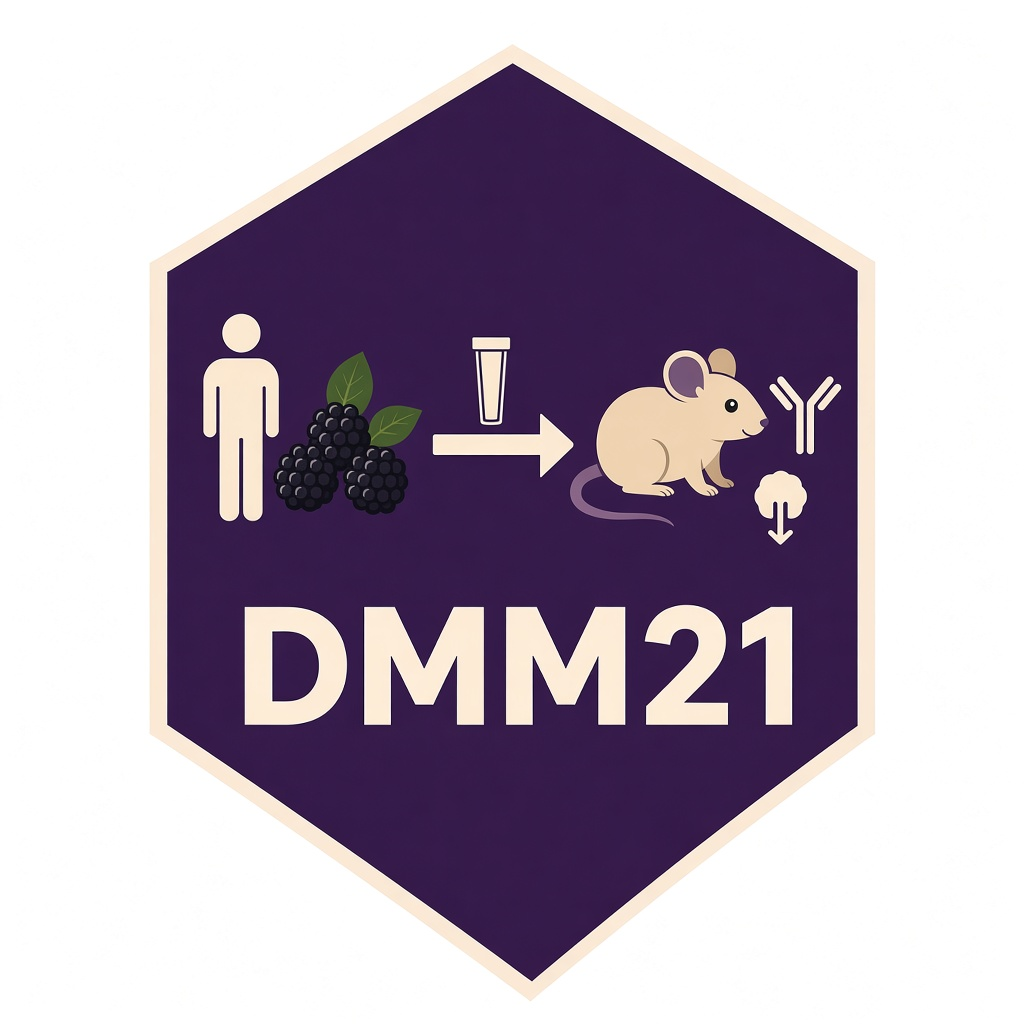
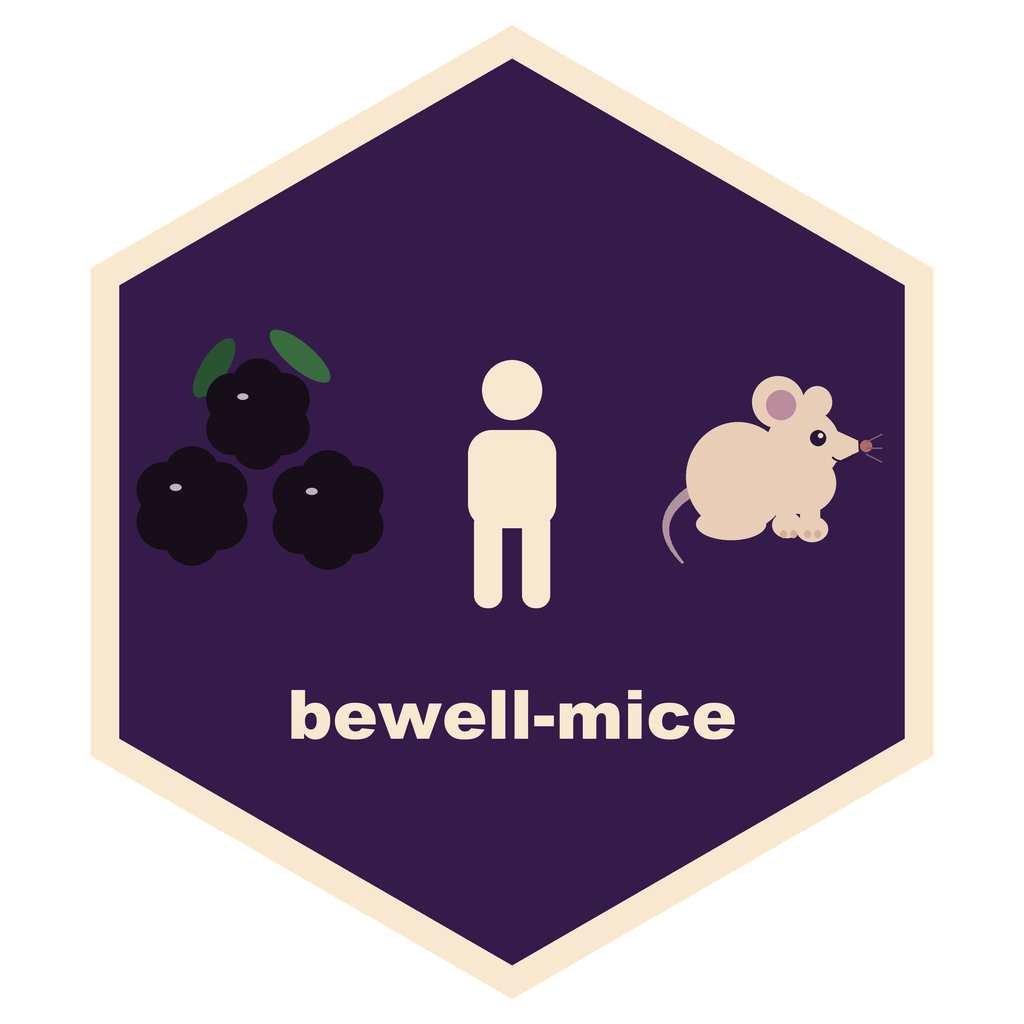
Rename project branding to bewell-mice
Update repository branding from dmm21 to bewell-mice in the README and replace the raster hex sticker with a new SVG version. The text also clarifies the paper framing by saying the enriched species is sufficient to improve anti-PD-1 response, aligning the repository description with the BE WELL clinical-trial context.

Changed region(s): [[0.0625, 0.0312, 0.9375, 1.0]]

diff --git a/README.md b/README.md
@@ -2,20 +2,20 @@
 <tr>
 <td>
 
-# dmm21
+# bewell-mice
 
 Black raspberry nectar, the gut microbiome, and immune checkpoint response
 
 </td>
 <td align="right" width="220">
 
-<img src="dmm21-hex.png" width="200" alt="dmm21 hex sticker">
+<img src="dmm21-hex.svg" width="200" alt="bewell-mice hex sticker">
 
 </td>
 </tr>
 </table>
 
-This repository contains the code and figure panels for the mouse-model paper that accompanies the BE WELL clinical trial. BE WELL tested whether four weeks of black raspberry nectar changes the gut microbiome of people at high risk for lung cancer ([NCT04267874](https://clinicaltrials.gov/study/NCT04267874)). This paper asks whether those microbiome changes, and one enriched species (*Blautia obeum*), are enough to improve anti-PD-1 response after the stool is transferred into tumor-bearing mice.
+This repository contains the code and figure panels for the mouse-model paper that accompanies the BE WELL clinical trial. BE WELL tested whether four weeks of black raspberry nectar changes the gut microbiome of people at high risk for lung cancer ([NCT04267874](https://clinicaltrials.gov/study/NCT04267874)). This paper asks whether those microbiome changes, and one of the enriched species (*Blautia obeum*), are sufficient to improve anti-PD-1 response after the stool is transferred into tumor-bearing mice.
 
 The trial itself is a separate public repository: [spakowiczlab/bewell](https://github.com/spakowiczlab/bewell). Enrollment, the nectar, urine polyphenols, cytokines, and the trial microbiome figures are documented there. This repository starts where that one stops: the rat feeding study, the comparison of BE WELL stool to published immunotherapy-response signatures, the mouse fecal-transfer experiments, and the Blautia and metabolomics follow-up.
 
